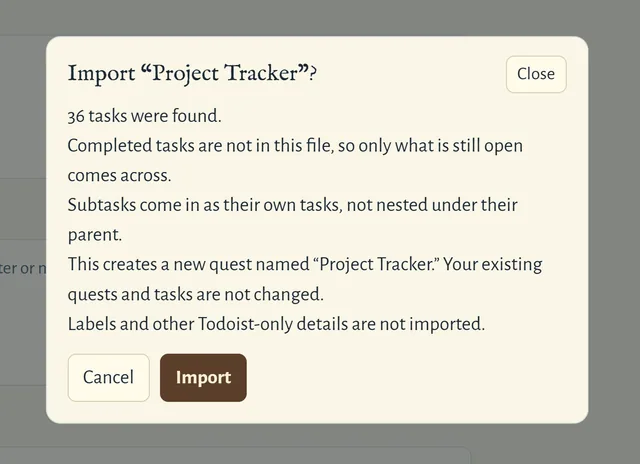
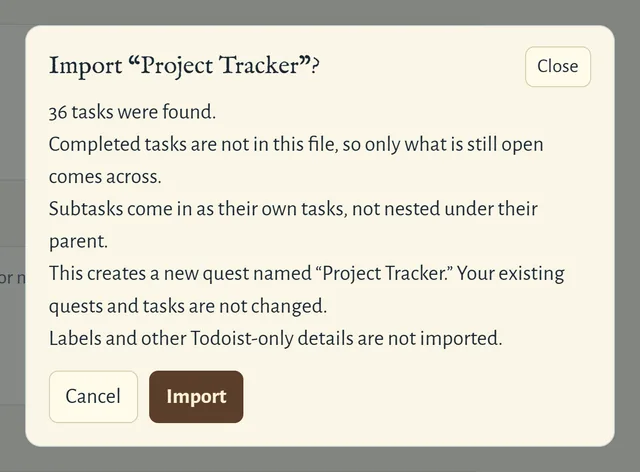
Ink reveal as a small cover canvas at 30 fps, no queue; new Import shots

Changed region(s): [[0.0, 0.0302, 0.9688, 0.9655]]

diff --git a/satchel.js b/satchel.js
@@ -160,28 +160,31 @@
     for (var n = 0; n < out.length; n++) out[n] /= total;
     return out;
   };
-  // Ink spreads from a few drops across the frame with a ragged, darker wet edge, then the real image takes over.
-  var inkIn = function (box, img, done) {
-    var r = box.getBoundingClientRect(), dpr = Math.min(window.devicePixelRatio || 1, 2);
-    var W = Math.round(r.width * dpr), H = Math.round(r.height * dpr), lw = Math.ceil(r.width / 4), lh = Math.ceil(r.height / 4);
+  // The real image sits under a small canvas that draws a parchment cover with an ink-shaped hole.
+  // Only the small canvas is redrawn, at 30 fps, and the browser scales it up.
+  var inkIn = function (box, img) {
+    var r = box.getBoundingClientRect();
+    var lw = Math.ceil(r.width / 4), lh = Math.ceil(r.height / 4);
     var cv = document.createElement("canvas");
-    cv.className = "inkcanvas"; cv.width = W; cv.height = H; cv.setAttribute("aria-hidden", "true");
-    box.appendChild(cv);
-    var ctx = cv.getContext("2d");
-    var maskCv = document.createElement("canvas"), edgeCv = document.createElement("canvas"), tintCv = document.createElement("canvas");
-    maskCv.width = edgeCv.width = lw; maskCv.height = edgeCv.height = lh; tintCv.width = lw; tintCv.height = lh;
-    var mctx = maskCv.getContext("2d"), ectx = edgeCv.getContext("2d"), tctx = tintCv.getContext("2d");
-    var mimg = mctx.createImageData(lw, lh), eimg = ectx.createImageData(lw, lh), noise = noiseField(lw, lh);
+    cv.className = "inkcanvas"; cv.width = lw; cv.height = lh; cv.setAttribute("aria-hidden", "true");
+    var ctx = cv.getContext("2d"), data = ctx.createImageData(lw, lh), px = data.data, noise = noiseField(lw, lh);
     var seeds = [], diag = Math.sqrt(lw * lw + lh * lh);
     for (var i = 0; i < 3; i++) seeds.push({ x: lw * (0.2 + 0.6 * Math.random()), y: lh * (0.2 + 0.6 * Math.random()), delay: 0.18 * i * Math.random() });
-    // The ink is a darker shade of the hero icon's border color, --parch-edge.
+    // The ink is a darker shade of the hero icon's border color, --parch-edge. The cover matches the box.
     var edge = /^#([0-9a-f]{6})$/i.exec(window.getComputedStyle(document.documentElement).getPropertyValue("--parch-edge").trim());
-    var inkColor = edge ? "rgb(" + [0, 2, 4].map(function (i) { return Math.round(parseInt(edge[1].substr(i, 2), 16) * 0.45); }).join(",") + ")" : "black";
-    var start = null, DURATION = 2300;
+    var ink = edge ? [0, 2, 4].map(function (n) { return Math.round(parseInt(edge[1].substr(n, 2), 16) * 0.45); }) : [0, 0, 0];
+    var probe = document.createElement("canvas"); probe.width = probe.height = 1;
+    var pctx = probe.getContext("2d"); pctx.fillStyle = window.getComputedStyle(box).backgroundColor; pctx.fillRect(0, 0, 1, 1);
+    var cover = pctx.getImageData(0, 0, 1, 1).data;
+    var start = null, last = -99, DURATION = 2300;
+    box.appendChild(cv);
+    box.classList.add("inking");
     var frame = function (now) {
       if (start === null) start = now;
-      var t = Math.min((now - start) / DURATION, 1), e = 1 - Math.pow(1 - t, 1.7), thr = -0.12 + e * 1.1;
-      var md = mimg.data, ed = eimg.data;
+      var t = Math.min((now - start) / DURATION, 1);
+      if (t < 1 && now - last < 33) { window.requestAnimationFrame(frame); return; }
+      last = now;
+      var e = 1 - Math.pow(1 - t, 1.7), thr = -0.12 + e * 1.1;
       for (var y = 0; y < lh; y++) for (var x = 0; x < lw; x++) {
         var k = y * lw + x, dmin = 9;
         for (var s = 0; s < 3; s++) {
@@ -190,36 +193,24 @@
         }
         var f = dmin * 1.15 + (noise[k] - 0.5) * 0.7, a = Math.max(0, Math.min(1, (thr - f) / 0.07));
         var band = Math.max(0, 1 - Math.abs(thr - f - 0.058) / 0.042) * (1 - t * 0.45);
-        md[k * 4 + 3] = a * 255;
-        ed[k * 4 + 3] = Math.min(1, band * 1.5) * a * 215;
+        var ia = Math.min(1, band * 1.5) * a * 0.84, ca = (1 - a) * (1 - ia), alpha = ia + ca, o = k * 4;
+        px[o] = alpha ? (ink[0] * ia + cover[0] * ca) / alpha : 0;
+        px[o + 1] = alpha ? (ink[1] * ia + cover[1] * ca) / alpha : 0;
+        px[o + 2] = alpha ? (ink[2] * ia + cover[2] * ca) / alpha : 0;
+        px[o + 3] = alpha * 255;
       }
-      mctx.putImageData(mimg, 0, 0); ectx.putImageData(eimg, 0, 0);
-      tctx.globalCompositeOperation = "source-over"; tctx.clearRect(0, 0, lw, lh);
-      tctx.fillStyle = inkColor; tctx.fillRect(0, 0, lw, lh);
-      tctx.globalCompositeOperation = "destination-in"; tctx.drawImage(edgeCv, 0, 0);
-      ctx.globalCompositeOperation = "source-over"; ctx.clearRect(0, 0, W, H);
-      ctx.drawImage(img, 0, 0, W, H);
-      ctx.globalCompositeOperation = "destination-in"; ctx.drawImage(maskCv, 0, 0, W, H);
-      ctx.globalCompositeOperation = "source-atop"; ctx.drawImage(tintCv, 0, 0, W, H);
+      ctx.putImageData(data, 0, 0);
       if (t < 1) window.requestAnimationFrame(frame);
-      else { box.classList.add("inked", "shown"); window.requestAnimationFrame(function () { cv.remove(); }); if (done) done(); }
+      else { box.classList.add("inked", "shown"); cv.remove(); }
     };
     window.requestAnimationFrame(frame);
-  };
-  // Reveals run one at a time, in the order the images came into view.
-  var waiting = [], inking = false;
-  var pump = function () {
-    if (inking || !waiting.length) return;
-    var next = waiting.shift();
-    inking = true;
-    inkIn(next.box, next.img, function () { inking = false; pump(); });
   };
   Array.prototype.forEach.call(document.querySelectorAll(".shotbox"), function (box) {
     var img = box.querySelector("img");
     var ready = !!(img.complete && img.naturalWidth), seen = false, ran = false;
     var go = function () {
       if (still) { if (ready) box.classList.add("shown"); return; }
-      if (seen && ready && !ran) { ran = true; waiting.push({ box: box, img: img }); pump(); }
+      if (seen && ready && !ran) { ran = true; inkIn(box, img); }
     };
     if (!ready) img.addEventListener("load", function () { ready = true; go(); });
     if (still) { go(); return; }

diff --git a/import.html b/import.html
@@ -109,12 +109,12 @@ gtag('config', 'G-JM2CZ1DLQ4');
       <article class="posting way trello" style="--rx:0.7;--ry:0.57;--bend:55px;--bbox:66px">
         <h2>Trello</h2>
         <p>Export your board as a JSON file from Trello, then select it in Sidequest. Cards become tasks, with descriptions carried over as notes and due dates preserved. Checklist items become steps, including their completion status. Cards without due dates go into the Backlog. Archived cards are skipped. Labels, members, comments, attachments, and custom fields aren’t imported.</p>
-        <figure class="shot"><div class="shotbox" style="--ar: 1296 / 755"><img src="assets/screenshots/ss-trello-640.webp" srcset="assets/screenshots/ss-trello-640.webp 640w, assets/screenshots/ss-trello-1296.webp 1296w" sizes="(min-width: 56rem) 28rem, 100vw" width="1296" height="755" loading="lazy" decoding="async" alt="The Trello import preview, reporting 6 cards and 22 checklist items with Cancel and Import buttons."></div></figure>
+        <figure class="shot"><div class="shotbox" style="--ar: 1270 / 744"><img src="assets/screenshots/ss-trello-640.webp" srcset="assets/screenshots/ss-trello-640.webp 640w, assets/screenshots/ss-trello-1270.webp 1270w" sizes="(min-width: 56rem) 28rem, 100vw" width="1270" height="744" loading="lazy" decoding="async" alt="The Trello import preview, reporting 6 cards and 22 checklist items with Cancel and Import buttons."></div></figure>
       </article>
       <article class="posting way todoist" style="--rx:-0.1;--ry:-0.44;--bend:33px;--bbox:40px">
         <h2>Todoist</h2>
         <p>Export a project as a CSV file from Todoist, then select it in Sidequest. Tasks come across with their due dates and notes. Todoist doesn’t include completed tasks in its exports, so those won’t appear in Sidequest. Also, exports are capped at 300 tasks, so a file with exactly 300 tasks may be incomplete. Subtasks become regular tasks, and labels aren’t imported. Relative dates such as “today,” “tomorrow,” and “in 3 days” are converted to calendar dates. Repeating tasks are imported without a schedule.</p>
-        <figure class="shot"><div class="shotbox" style="--ar: 1380 / 1001"><img src="assets/screenshots/ss-todoist-640.webp" srcset="assets/screenshots/ss-todoist-640.webp 640w, assets/screenshots/ss-todoist-1380.webp 1380w" sizes="(min-width: 56rem) 28rem, 100vw" width="1380" height="1001" loading="lazy" decoding="async" alt="The Todoist import preview, reporting 36 tasks with Cancel and Import buttons."></div></figure>
+        <figure class="shot"><div class="shotbox" style="--ar: 1270 / 936"><img src="assets/screenshots/ss-todoist-640.webp" srcset="assets/screenshots/ss-todoist-640.webp 640w, assets/screenshots/ss-todoist-1270.webp 1270w" sizes="(min-width: 56rem) 28rem, 100vw" width="1270" height="936" loading="lazy" decoding="async" alt="The Todoist import preview, reporting 36 tasks with Cancel and Import buttons."></div></figure>
       </article>
     </div>
   </div>

diff --git a/satchel.css b/satchel.css
@@ -359,7 +359,8 @@ code { font-family: var(--font-mono); font-size: .92em; }
 .js .shotbox.shown img { opacity: 1; transition: opacity .5s ease; }
 /* The ink is painted on a canvas over the image, which takes over when the ink is done. */
 .inkcanvas { position: absolute; inset: 0; width: 100%; height: 100%; pointer-events: none; }
-.js .shotbox.inked img { transition: none; }
+.js .shotbox.inking img, .js .shotbox.inked img { opacity: 1; transition: none; }
+.inkcanvas { image-rendering: auto; }
 .shot.side .shotbox { max-width: 22rem; margin-inline: auto; }
 @media (prefers-reduced-motion: reduce) { .js .shotbox.shown img { transition: none; } }
 .shotlabel { font: 600 calc(var(--text-80) - 2px)/1.2 var(--font-sans); letter-spacing: .12em; text-transform: uppercase; }
